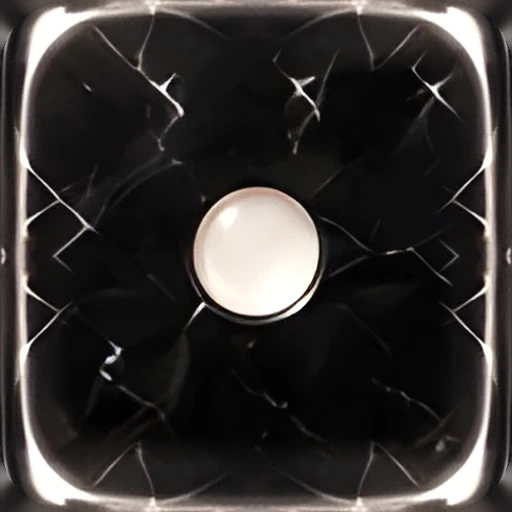
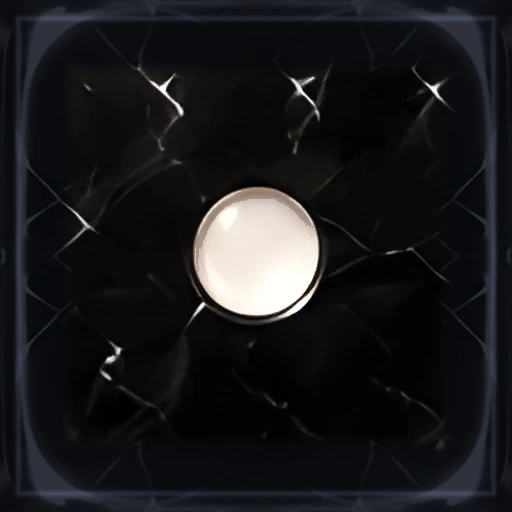
요트 히어로즈 v0.30.9: 블랙 주사위 테두리를 흑요석처럼 올블랙으로
- 시안의 하얀 유리 테두리를 거의 검게 눌러 옅은 남색 광택만 남기고, 가장자리 안쪽에 가는 광택선 (obsidian)
- 바탕은 조금 더 깊게, 하얀 눈은 그대로 · 설명 문구 갱신

Claude-Session: https://claude.ai/code/session_014gChBYzVF9cfUwsBghVSK5

diff --git a/dice-heroes/skins.js b/dice-heroes/skins.js
@@ -11,7 +11,7 @@ export const DICE_SKINS = [
   { id: 'gold', name: '황금', desc: '온통 순금 · 새겨진 눈 · 금화 소리', tier: 'special', sound: 'coin' },
   { id: 'minimal', name: '미니멀', desc: '매끈하게 윤나는 하얀 주사위 · 톡톡 소리', tier: 'special', sound: 'soft' },
   { id: 'cosmic', name: '우주', desc: '은하수가 반짝이는 밤하늘 · 반짝 소리', tier: 'special', sound: 'twinkle' },
-  { id: 'black', name: '블랙', desc: '기본 주사위의 흑백 반전', tier: 'special', sound: 'classic' },
+  { id: 'black', name: '블랙', desc: '흑요석처럼 깊고 윤나는 검정 · 하얀 눈', tier: 'special', sound: 'classic' },
   { id: 'clear', name: '투명', desc: '무지갯빛이 번지는 유리 주사위 · 유리 소리', tier: 'special', sound: 'glass' },
   { id: 'heart', name: '하트', desc: '반짝이는 연분홍에 하트 눈 · 뿅뿅', tier: 'special', sound: 'pop' },
   { id: 'keycap', name: '키캡', desc: '기계식 키보드 키캡 · 도각 소리', tier: 'special', sound: 'key' },

diff --git a/dice-heroes/config.js b/dice-heroes/config.js
@@ -3,6 +3,6 @@ export const GAME = {
   name: '요트 히어로즈',
   en: 'YACHT HEROES',
   studio: 'HAHAHOHO COMPANY',
-  version: '0.30.8',
+  version: '0.30.9',
   year: 2026,
 };

diff --git a/dice-heroes/tools/make_dice_from_sheet.py b/dice-heroes/tools/make_dice_from_sheet.py
@@ -34,7 +34,7 @@ SKINS = {   # rim: 테두리를 대칭으로 만들 때 쓸 1/4 ('tl' 왼쪽 위
     'minimal':   dict(cy=435, side=108, rim='bl'),
     'gold':      dict(cy=556, side=108, rim='bl'),
     'cosmic':    dict(cy=676, side=112),
-    'black':     dict(cy=799, side=110),
+    'black':     dict(cy=799, side=110, finish='obsidian'),
     'openheart': dict(cy=938, side=120),
 }
 
@@ -89,8 +89,8 @@ def crop_face(sheet, arr, name, c):
         crop = big.crop(tuple(round((v - o) * SCALE) for v, o in zip(box, (x0, y0, x0, y0))))
         if p.get('redraw'):
             return symmetric_rim(redraw_pips(name, crop, c + 1, sheet, arr), p.get('rim', 'tl'), t)
-        face = crop.resize((SIZE, SIZE), Image.LANCZOS)
-        return symmetric_rim(face, p.get('rim', 'tl'), t)
+        face = symmetric_rim(crop.resize((SIZE, SIZE), Image.LANCZOS), p.get('rim', 'tl'), t)
+        return obsidian(face) if p.get('finish') == 'obsidian' else face
     face = sheet.crop(tuple(int(round(v)) for v in box)).resize((SIZE, SIZE), Image.LANCZOS)
     face = symmetric_rim(face, p.get('rim', 'tl'), t)
     return face.filter(ImageFilter.UnsharpMask(radius=1.4, percent=60, threshold=2))
@@ -143,6 +143,25 @@ def redraw_pips(name, crop, v, sheet, arr):
     for fx, fy in PIP_POS[v]:
         base.paste(sp, (int(round(fx * SIZE - S2 / 2)), int(round(fy * SIZE - S2 / 2))), sp)
     return base
+
+
+def obsidian(face):
+    """블랙: 시안의 하얀 유리 테두리를 흑요석처럼 — 테두리 띠는 거의 검게 눌러 아주 옅은 푸른 광택만 남기고,
+    가장자리 안쪽에 가는 광택선 하나를 그어 각진 돌 느낌을 낸다. 바탕은 조금 더 어둡게, 하얀 눈은 그대로"""
+    a = np.asarray(face).astype(np.float32)
+    n = a.shape[0]
+    i = np.arange(n); d = np.minimum(i, n - 1 - i) / n
+    dist = np.minimum(d[:, None], d[None, :])
+    rim = np.clip((0.15 - dist) / 0.03, 0, 1)[..., None]          # 0.12 안쪽은 테두리, 0.15 까지 섞임
+    lum = a.mean(2, keepdims=True)
+    dark = np.concatenate([lum * 0.16 + 6, lum * 0.17 + 7, lum * 0.20 + 10], 2)   # 검정 + 아주 옅은 남색 광
+    body = a * 0.82                                                # 바탕 대리석 결도 조금 더 깊게
+    white = (a.min(2, keepdims=True) > 175).astype(np.float32)     # 눈(하얀 구슬)은 그대로
+    out = body * (1 - rim) + dark * rim
+    out = out * (1 - white * (1 - rim)) + a * white * (1 - rim)
+    line = np.exp(-((dist - 0.035) / 0.006) ** 2)[..., None]       # 가는 광택선
+    out = out + line * np.array([24, 26, 34], np.float32)
+    return Image.fromarray(out.clip(0, 255).astype(np.uint8))
 
 
 RIM, RIM_SOFT, CORNER = 0.12, 0.05, 0.13     # 테두리 띠 폭 · 섞이는 폭 · 모서리 둥글기 (한 변 대비)
